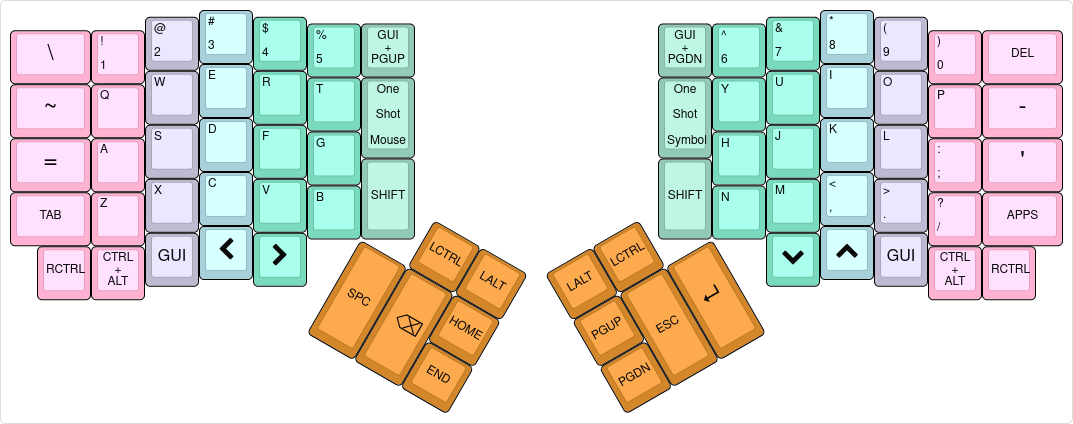
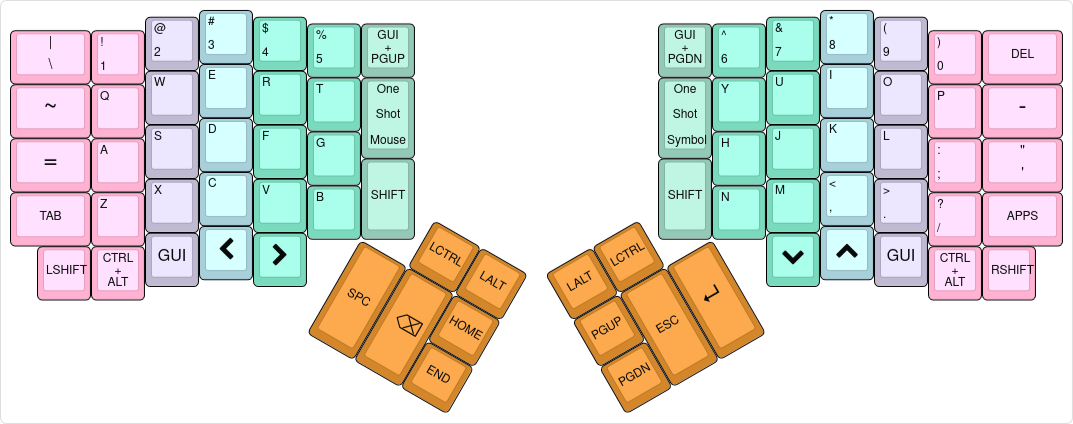
Layout tweaks shift on bottom left and right keys among others.

diff --git a/linux/keymap.c b/linux/keymap.c
@@ -47,7 +47,7 @@ const uint16_t PROGMEM keymaps[][MATRIX_ROWS][MATRIX_COLS] = {
  * |-----------+------+------+------+------+------| TAP  |           | TAP  |------+------+------+------+------+-----------|
  * |    TAB    |   Z  |   X  |   C  |   V  |   B  | LSFT |           | RSFT |   N  |   M  |   ,  |   .  |   /  |   APPS    |
  * `-----------+------+------+------+------+-------------'           `-------------+------+------+------+------+-----------'
- *     | RCTRL |CT+ALT| GUI  | Left | Right|                                       | Down |  Up  | GUI  |CT+ALT| RCTRL |
+ *     | LSHFT |CT+ALT| GUI  | Left | Right|                                       | Down |  Up  | GUI  |CT+ALT| RSHFT  |
  *     `-----------------------------------'                                       `-----------------------------------'
  *                                         ,-------------.           ,-------------.
  *                                         | LCTRL| LALT |           | LALT |LCTRL |
@@ -64,7 +64,7 @@ const uint16_t PROGMEM keymaps[][MATRIX_ROWS][MATRIX_COLS] = {
             KC_TILD,        KC_Q,           KC_W,      KC_E,    KC_R,    KC_T,       OSL(2),
             KC_EQUAL,       KC_A,           KC_S,      KC_D,    KC_F,    SFT_T(KC_G),
             KC_TAB,         KC_Z,           KC_X,      KC_C,    KC_V,    KC_B,       OSM(MOD_LSFT),
-            KC_RCTRL,       LALT(KC_LCTRL), KC_LGUI,   KC_LEFT, KC_RIGHT,
+            KC_LSFT,       LALT(KC_LCTRL), KC_LGUI,   KC_LEFT, KC_RIGHT,
 
                                     // left thumb cluster
 
@@ -77,7 +77,7 @@ const uint16_t PROGMEM keymaps[][MATRIX_ROWS][MATRIX_COLS] = {
                                             OSL(1),           KC_Y,       KC_U,   KC_I,     KC_O,             KC_P,           KC_MINUS,  
                                                               SFT_T(KC_H),KC_J,   KC_K,     KC_L,             KC_SCOLON,      KC_QUOTE,
                                             OSM(MOD_LSFT),    KC_N,       KC_M,   KC_COMMA, KC_DOT,           KC_SLASH,       KC_APPLICATION,
-                                                                          KC_DOWN,KC_UP,    KC_LGUI,          RALT(KC_RCTRL), KC_RCTRL,
+                                                                          KC_DOWN,KC_UP,    KC_LGUI,          RALT(KC_RCTRL), KC_RSFT,
 
                                                                     // right thumb cluster
                                                                     KC_LALT, KC_LCTRL,
@@ -93,8 +93,8 @@ const uint16_t PROGMEM keymaps[][MATRIX_ROWS][MATRIX_COLS] = {
  * | PRINTSCRN |   `  |   @  |   {  |   }  |   |  |      |           |      |   *  |   7  |   8  |   9  |   &  |    F12    |
  * |-----------+------+------+------+------+------|      |           |      |------+------+------+------+------+-----------|
  * | CTRL+INS  |   #  |   $  |   (  |   )  |   &  |------|           |------|   +  |   4  |   5  |   6  |   _  | SHIFT+INS |
- * |-----------+------+------+------+------+------| REG  |           | REG  |------+------+------+------+------+-----------|
- * |           |   %  |   ^  |   [  |   ]  |   "  | LSFT |           | RSFT |   -  |   1  |   2  |   3  |   /  |           |
+ * |-----------+------+------+------+------+------|      |           |      |------+------+------+------+------+-----------|
+ * |           |   %  |   ^  |   [  |   ]  |   "  |      |           |      |   -  |   1  |   2  |   3  |   /  |           |
  * `-----------+------+------+------+------+-------------'           `-------------+------+------+------+------+-----------'
  *     | RALT  |      |      |      |   \  |                                       |   =  |   0  |   .  |      | RALT  |
  *     `-----------------------------------'                                       `-----------------------------------'
@@ -111,7 +111,7 @@ const uint16_t PROGMEM keymaps[][MATRIX_ROWS][MATRIX_COLS] = {
              KC_NUMLOCK,           KC_F1,          KC_F2,          KC_F3,          KC_F4,      KC_F5,      KC_TRANSPARENT,
              KC_PSCREEN,           KC_GRAVE,       KC_AT,          KC_LCBR,        KC_RCBR,    KC_PIPE,    KC_TRANSPARENT,
              LCTL(KC_INSERT),      KC_HASH,        KC_DLR,         KC_LPRN,        KC_RPRN,    KC_AMPR,
-             KC_TRANSPARENT,       KC_PERC,        KC_CIRC,        KC_LBRACKET,    KC_RBRACKET,KC_DQUO,    KC_LSFT,
+             KC_TRANSPARENT,       KC_PERC,        KC_CIRC,        KC_LBRACKET,    KC_RBRACKET,KC_DQUO,    KC_TRANSPARENT,
              KC_RALT,              KC_TRANSPARENT, KC_TRANSPARENT, KC_TRANSPARENT, KC_BSLASH,
 
                     // left thumb cluster
@@ -123,7 +123,7 @@ const uint16_t PROGMEM keymaps[][MATRIX_ROWS][MATRIX_COLS] = {
                             KC_TRANSPARENT,  KC_F6,          KC_F7,    KC_F8,      KC_F9,      KC_F10,           KC_F11,
                             KC_TRANSPARENT,  KC_ASTR,        KC_KP_7,  KC_KP_8,    KC_KP_9,    KC_AMPR,          KC_F12,
                                              KC_PLUS,        KC_KP_4,  KC_KP_5,    KC_KP_6,    KC_UNDS,          LSFT(KC_INSERT),
-                            KC_RSFT,         KC_MINUS,       KC_KP_1,  KC_KP_2,    KC_KP_3,    KC_SLASH,         KC_TRANSPARENT,
+                            KC_TRANSPARENT,  KC_MINUS,       KC_KP_1,  KC_KP_2,    KC_KP_3,    KC_SLASH,         KC_TRANSPARENT,
                                                              KC_EQUAL, KC_KP_0,    KC_KP_DOT,  KC_TRANSPARENT,   KC_RALT,
 
                                             // right thumb cluster

diff --git a/mac/keymap.c b/mac/keymap.c
@@ -46,7 +46,7 @@ const uint16_t PROGMEM keymaps[][MATRIX_ROWS][MATRIX_COLS] = {
  * |-----------+------+------+------+------+------| TAP  |           | TAP  |------+------+------+------+------+-----------|
  * |   TAB     |   Z  |   X  |   C  |   V  |   B  | LSFT |           | RSFT |   N  |   M  |   ,  |   .  |   /  |   CTRL+,  |
  * `-----------+------+------+------+------+-------------'           `-------------+------+------+------+------+-----------'
- *     | RCTRL |CT+GUI|  Opt | Left | Right|                                       | Down |  Up  | Opt  |CT+GUI| RCTRL |
+ *     | LSHFT |CT+GUI|  Opt | Left | Right|                                       | Down |  Up  | Opt  |CT+GUI| RSHFT |
  *     `-----------------------------------'                                       `-----------------------------------'
  *                                         ,-------------.           ,-------------.
  *                                         | CTRL |  GUI |           | GUI  | CTRL |
@@ -63,7 +63,7 @@ const uint16_t PROGMEM keymaps[][MATRIX_ROWS][MATRIX_COLS] = {
             KC_TILD,        KC_Q,           KC_W,       KC_E,    KC_R,    KC_T,       OSL(2),
             KC_EQUAL,       KC_A,           KC_S,       KC_D,    KC_F,    SFT_T(KC_G),
             KC_TAB,         KC_Z,           KC_X,       KC_C,    KC_V,    KC_B,       OSM(MOD_LSFT),
-            KC_RCTRL,       LCTL(KC_LGUI),  KC_LALT,    KC_LEFT, KC_RIGHT,
+            KC_LSFT,       LCTL(KC_LGUI),  KC_LALT,    KC_LEFT, KC_RIGHT,
             
                                     // left thumb cluster
                                                KC_LCTRL, KC_LGUI,
@@ -75,7 +75,7 @@ const uint16_t PROGMEM keymaps[][MATRIX_ROWS][MATRIX_COLS] = {
                                                     OSL(1),         KC_Y,       KC_U,   KC_I,     KC_O,      KC_P,             KC_MINUS,
                                                                     SFT_T(KC_H),KC_J,   KC_K,     KC_L,      KC_SCOLON,        KC_QUOTE,
                                                     OSM(MOD_LSFT),  KC_N,       KC_M,   KC_COMMA, KC_DOT,    KC_SLASH,         RCTL(KC_COMM), 
-                                                                                KC_DOWN,KC_UP,    KC_RALT,   RCTL(KC_LGUI),    KC_RCTRL,
+                                                                                KC_DOWN,KC_UP,    KC_RALT,   RCTL(KC_LGUI),    KC_RSFT,
 
                                                                     // right thumb cluster
                                                                     KC_RGUI, KC_RCTRL,
@@ -94,7 +94,7 @@ const uint16_t PROGMEM keymaps[][MATRIX_ROWS][MATRIX_COLS] = {
  * |-----------+------+------+------+------+------|      |           |      |------+------+------+------+------+-----------|
  * |           |   %  |   ^  |   [  |   ]  |   "  |      |           |      |   -  |   1  |   2  |   3  |   /  |           |
  * `-----------+------+------+------+------+-------------'           `-------------+------+------+------+------+-----------'
- *     |       |      |      |      |   \  |                                       |   =  |   0  |   .  |      |       |
+ *     | RALT  |      |      |      |   \  |                                       |   =  |   0  |   .  |      | RALT  |
  *     `-----------------------------------'                                       `-----------------------------------'
  *                                         ,-------------.           ,-------------.
  *                                         |      |      |           |      |      |
@@ -110,7 +110,7 @@ const uint16_t PROGMEM keymaps[][MATRIX_ROWS][MATRIX_COLS] = {
              KC_TRANSPARENT, KC_GRAVE,       KC_AT,          KC_LCBR,        KC_RCBR,    KC_PIPE,    KC_TRANSPARENT,
              KC_TRANSPARENT, KC_HASH,        KC_DLR,         KC_LPRN,        KC_RPRN,    KC_AMPR,
              KC_TRANSPARENT, KC_PERC,        KC_CIRC,        KC_LBRACKET,    KC_RBRACKET,KC_DQUO,    KC_TRANSPARENT,
-             KC_TRANSPARENT, KC_TRANSPARENT, KC_TRANSPARENT, KC_TRANSPARENT, KC_BSLASH,
+             KC_RALT, KC_TRANSPARENT, KC_TRANSPARENT, KC_TRANSPARENT, KC_BSLASH,
  
                     // left thumb cluster
                                     KC_TRANSPARENT, KC_TRANSPARENT, 
@@ -122,7 +122,7 @@ const uint16_t PROGMEM keymaps[][MATRIX_ROWS][MATRIX_COLS] = {
                             KC_TRANSPARENT, KC_ASTR,        KC_KP_7,  KC_KP_8,    KC_KP_9,    KC_AMPR,          KC_F12,
                                             KC_PLUS,        KC_KP_4,  KC_KP_5,    KC_KP_6,    KC_UNDS,          KC_TRANSPARENT,
                             KC_TRANSPARENT, KC_MINUS,       KC_KP_1,  KC_KP_2,    KC_KP_3,    KC_SLASH,         KC_TRANSPARENT,
-                                                            KC_EQUAL, KC_KP_0,    KC_KP_DOT,  KC_TRANSPARENT,   KC_TRANSPARENT,
+                                                            KC_EQUAL, KC_KP_0,    KC_KP_DOT,  KC_TRANSPARENT,   KC_RALT,
 
                                             // right thumb cluster
                                             KC_TRANSPARENT, KC_TRANSPARENT,
